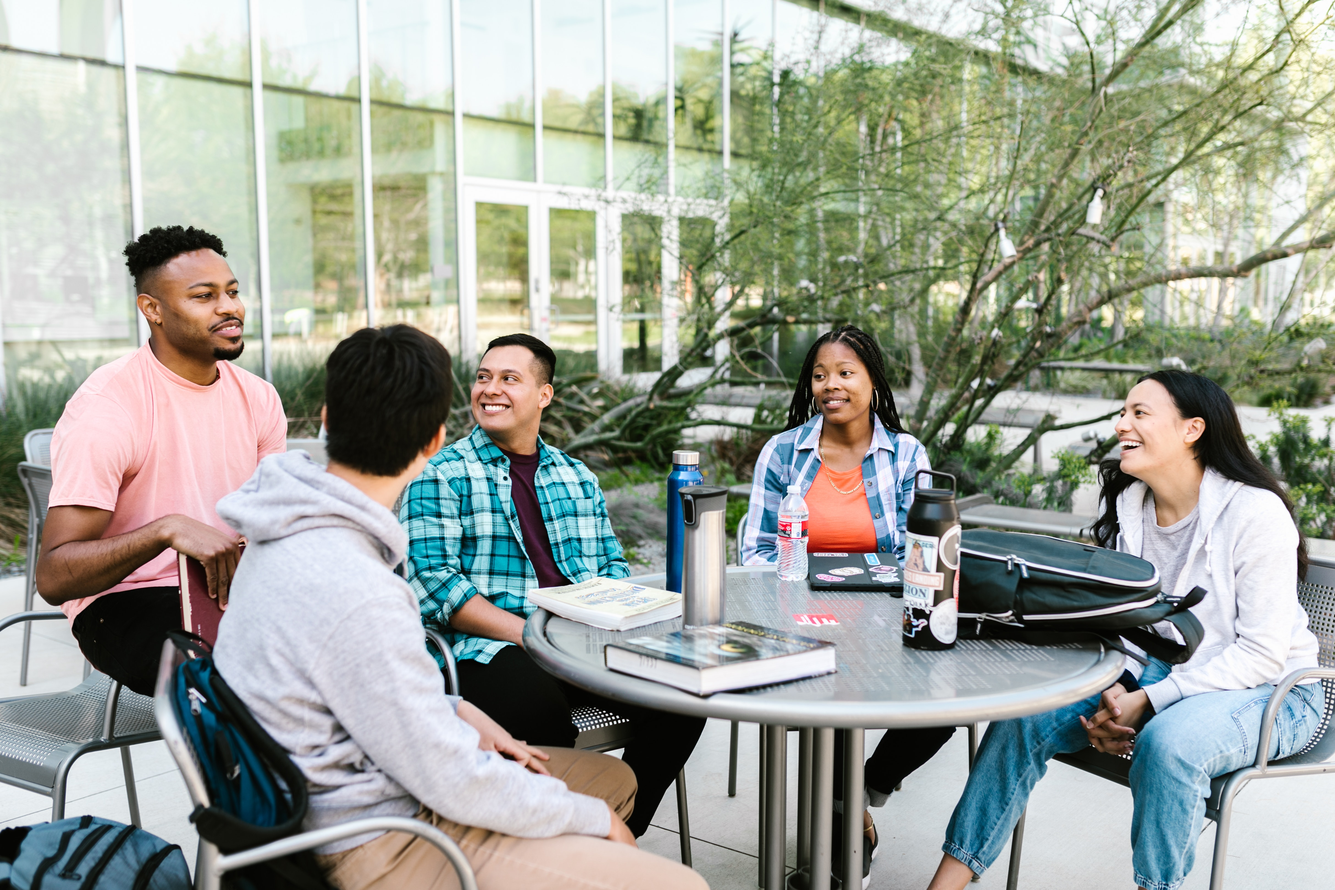
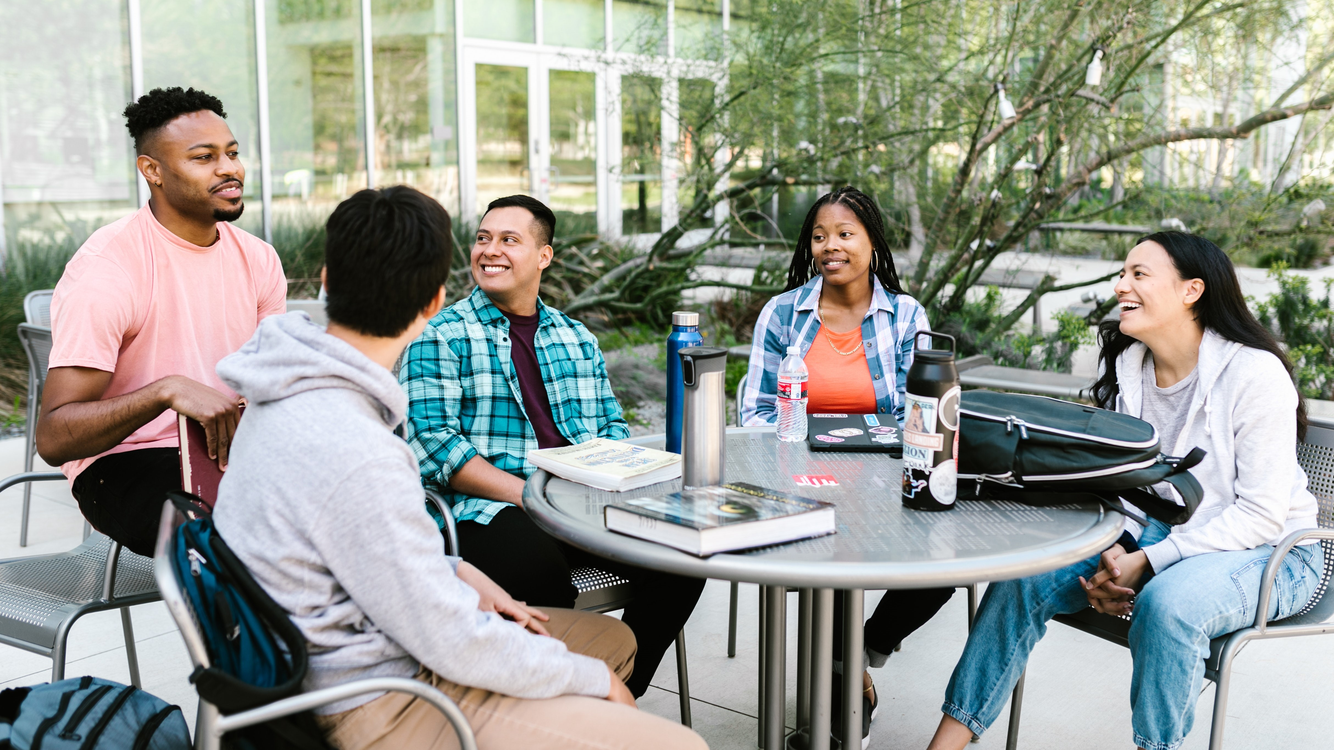
agregue un carousel al index

diff --git a/css/index.css b/css/index.css
@@ -1,0 +1,56 @@
+.btnlinks{
+    color: white;
+    background-color: #19A7CE;
+    transition-duration: 0.1s;
+}
+
+.btnlinks:hover{
+    color: black!important;
+    background-color: #AFD3E2!important;
+}
+
+.carousel-caption{
+    bottom: 200px;
+    z-index: 2;
+}
+
+.carousel-caption h5{
+    font-size: 45px;
+}
+
+.carousel-caption p{
+    width: 60%;
+    margin:auto;
+    font-size:18px;
+}
+
+.carousel-inner::before{
+    background: rgb(0, 0, 0, 0.5);
+    content:'';
+    position: absolute;
+    width:100%;
+    height:100%;
+    top:0;
+    left:0;
+    z-index:1;
+}
+
+.carousel-image{
+    height: 88vh;
+    object-fit: cover;
+}
+
+@media (max-width: 770px){
+
+    .carousel-caption{
+        bottom: 80px;
+        z-index: 2;
+    }
+
+    .carousel-caption h5{
+        font-size: calc(0.5rem + 3vw);
+    }
+    .carousel-caption p{
+        font-size: calc(0.22rem + 2vw);
+    }
+}

diff --git a/index.php b/index.php
@@ -1,7 +1,6 @@
 <?php 
     session_start();
     include './back/conexion.php';
-
 ?>
 
 <!DOCTYPE html>
@@ -18,43 +17,109 @@
         <link rel="preconnect" href="https://fonts.gstatic.com" crossorigin/>
         <link href="https://fonts.googleapis.com/css2?family=Pacifico&family=Red+Hat+Display:ital,wght@0,300;0,400;0,500;0,600;0,700;0,800;0,900;1,300;1,400;1,500;1,600;1,700;1,800;1,900&display=swap" rel="stylesheet"/>
         <link rel="stylesheet" href="https://cdn.jsdelivr.net/npm/bootstrap-icons@1.10.5/font/bootstrap-icons.css">
-        <link href="/css/style.css" rel="stylesheet"/>
+        <link href="./css/style.css" rel="stylesheet"/>
+        <link href="./css/index.css" rel="stylesheet"/>
         <link rel="icon" href="./img/open-book.png">
 
         <title>Cursos</title>
     </head>
 <body>
-    <?php include './header.php'?>
-
     <main>
-        <div class="contenedor">
-            <div class="nada align-items-center text-center mt-2"><h1>Todos los cursos</h1></div>
-                <div class="contenido" id="contenido">
-                <?php if(!empty($_SESSION["id"])):?>
-                    <a class="btn btn-danger" href="./back/login/control_logout.php"> <!--./login.html-->
-                            Salir
-                    </a>
-                    <?php echo "Usuario " . $_SESSION["tipo"] . " con id: " . $_SESSION["id"]?>
-                <?php endif; ?>
-            </div>
-        </div>
-        <?php include './footer.html'?>
-
-
-        <template id="tipocursos">
-        <div class="container">
-                    <div class="row g-2">
-                        <div class="col-6">
-                            <div class="p-3 border bg-light mb-3 text-center">
-                                <div class="tipo"></div>
-                            </div>
-                        </div>
+    <?php include './header.php'?>
+            <!--Carousel section-->
+            <section id="mainCarousel" class="carousel slide" data-bs-ride="carousel">
+                <div class = "carousel-indicators">
+                    <button type="button" data-bs-target="#mainCarousel" data-bs-slide-to="0" class="active" aria-current="true"
+                        aria-label="Slide 1"></button>
+                    <button type="button" data-bs-target="#mainCarousel" data-bs-slide-to="1" aria-current="true"
+                        aria-label="Slide 2"></button>
+                    <button type="button" data-bs-target="#mainCarousel" data-bs-slide-to="2" aria-current="true"
+                        aria-label="Slide 3"></button>
+                </div>
+                <!--Carousel content-->
+                <div class="carousel-inner">
+                    <div class="carousel-item active">
+                        <img class="carousel-image d-block w-100" src="./img/1.jpg">
+                        <span class="carousel-caption">
+                            <?php if(!empty($_SESSION["id"])):?>
+                               <?php echo ' <h5> Bienvenido(a) '. '<span class="text-info">' . $_SESSION["tipo"] . '</span></h5>'?>
+                                <p>
+                                    Continua con los cursos en los que ya llevas progreso!
+                                </p>
+                                <a class="btn btnlinks mt-3" href="./redirecccion/rmiscursos.php" style="background-color: #19A7CE;"><i class="bi bi-archive"></i><span style="margin-left: 5px;"> Mis cursos</span></a>
+                            <?php else: ?>
+                                <h5>
+                                    ¿Estas en busca de nuevos cursos?
+                                    <span class="text-info">¡LearnSphere es para ti!</span>
+                                </h5>
+                                <p>
+                                    Busca entre nuestros cursos y elige los que se adapten a tus necesidades!
+                                </p>
+                                <a class="btn btnlinks mt-3" href="./registro.php">Registrate</a>
+                            <?php endif; ?>
+                        </span>
+                    </div>
+                    <div class="carousel-item">
+                        <img class="carousel-image d-block w-100" src="./img/2.jpg">
+                        <span class="carousel-caption">
+                            <?php if(!empty($_SESSION["id"])):?>
+                               <?php echo ' <h5> Bienvenido(a) '. '<span class="text-info">' . $_SESSION["tipo"] . '</span></h5>'?>
+                                <p>
+                                    Busca cursos nuevos para comenzar!
+                                </p>
+                                <a class="btn btnlinks mt-3" href="./cursosmaestro.php" style="background-color: #19A7CE;"><i class="bi bi-archive"></i><span style="margin-left: 5px;"> Cursos</span></a>
+                            <?php else: ?>
+                                <h5>
+                                    ¿Quieres impartir algun curso pero no tienes una plataforma?
+                                    <span class="text-info">¡LearnSphere es para ti!</span>
+                                </h5>
+                                <p>
+                                    Imparte tus cursos en linea sin necesidad de establecer un horario de clase!
+                                </p>
+                                <a class="btn btnlinks mt-3" href="./registro.php">Registrate</a>
+                            <?php endif; ?>
+                        </span>
+                    </div>
+                    <div class="carousel-item">
+                        <img class="carousel-image d-block w-100" src="./img/3.jpg">
+                        <span class="carousel-caption">
+                            <?php if(!empty($_SESSION["id"])):?>
+                               <?php echo ' <h5> Bienvenido(a) '. '<span class="text-info">' . $_SESSION["tipo"] . '</span></h5>'?>
+                                <p>
+                                    Imparte un nuevo curso!
+                                </p>
+                                <a class="btn btnlinks mt-3" href="" style="background-color: #19A7CE;"><i class="bi bi-easel"></i><span style="margin-left: 5px;"> Enseña</span></a>
+                            <?php else: ?>
+                                <h5>
+                                    ¿Te cuesta ir a la universidad?
+                                    <span class="text-info">¡LearnSphere es para ti!</span>
+                                </h5>
+                                <p>
+                                    Toma tus clases a traves de LearnSphere en el horario que se te adapte!
+                                </p>
+                                <a class="btn btnlinks mt-3" href="./registro.php">Registrate</a>
+                            <?php endif; ?>
+                        </span>
                     </div>
                 </div>
-        </template>
-    </main>
-    
-    <script src="../js/index.js"></script>
+                <!--Carousel prev and next buttons-->
+                <button class = "carousel-control-prev" type = "button"
+                    data-bs-target="#mainCarousel"
+                    data-bs-slide="prev"
+                >
+                    <span class = "carousel-control-prev-icon" aria-hidden="true"></span>
+                    <span class = "visually-hidden">Previous</span>
+                </button>
+                <button class = "carousel-control-next" type = "button"
+                    data-bs-target="#mainCarousel"
+                    data-bs-slide="next"
+                >
+                    <span class = "carousel-control-next-icon" aria-hidden="true"></span>
+                    <span class = "visually-hidden">Next</span>
+                </button>
+            </section>
+            <?php include './footer.html'?>
+        </main>
     <script src="https://cdn.jsdelivr.net/npm/@popperjs/core@2.9.2/dist/umd/popper.min.js" integrity="sha384-IQsoLXl5PILFhosVNubq5LC7Qb9DXgDA9i+tQ8Zj3iwWAwPtgFTxbJ8NT4GN1R8p" crossorigin="anonymous"></script>
     <script src="https://cdn.jsdelivr.net/npm/bootstrap@5.0.2/dist/js/bootstrap.min.js" integrity="sha384-cVKIPhGWiC2Al4u+LWgxfKTRIcfu0JTxR+EQDz/bgldoEyl4H0zUF0QKbrJ0EcQF" crossorigin="anonymous"></script>
 </body>
